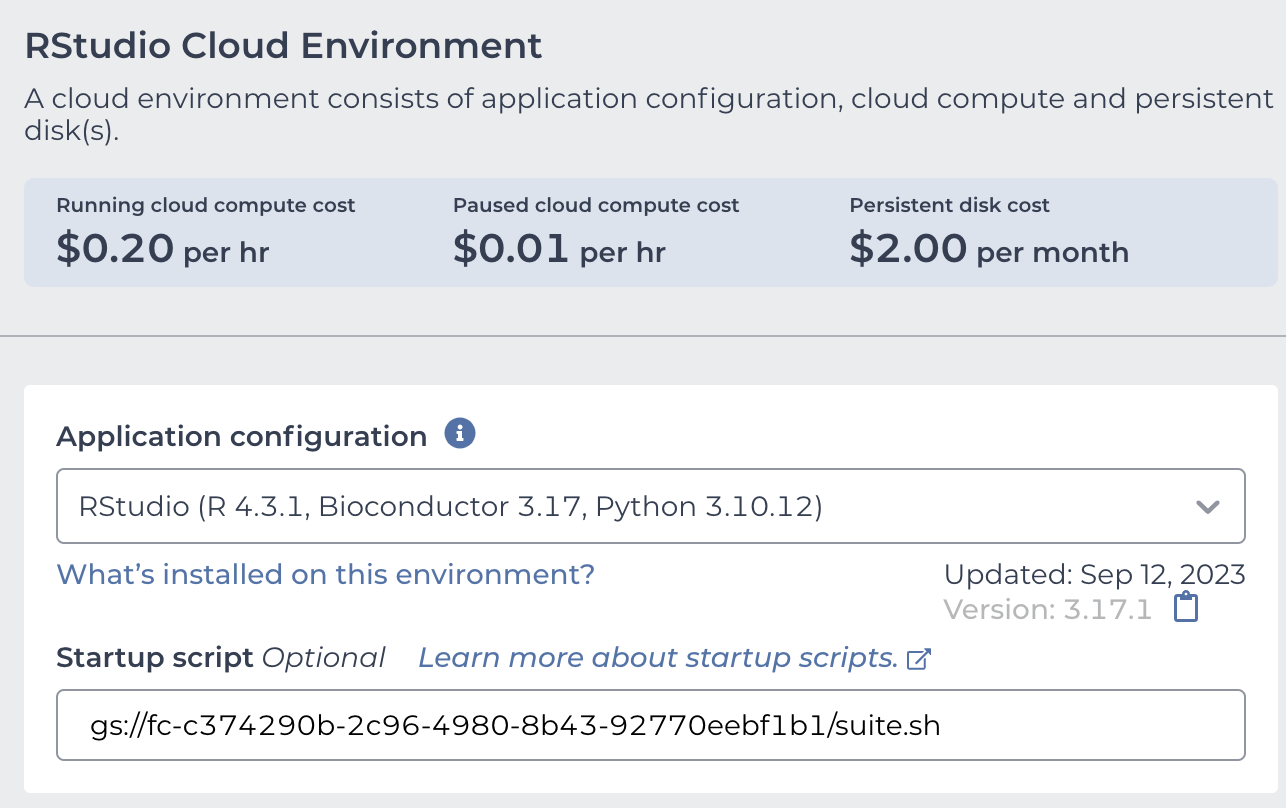
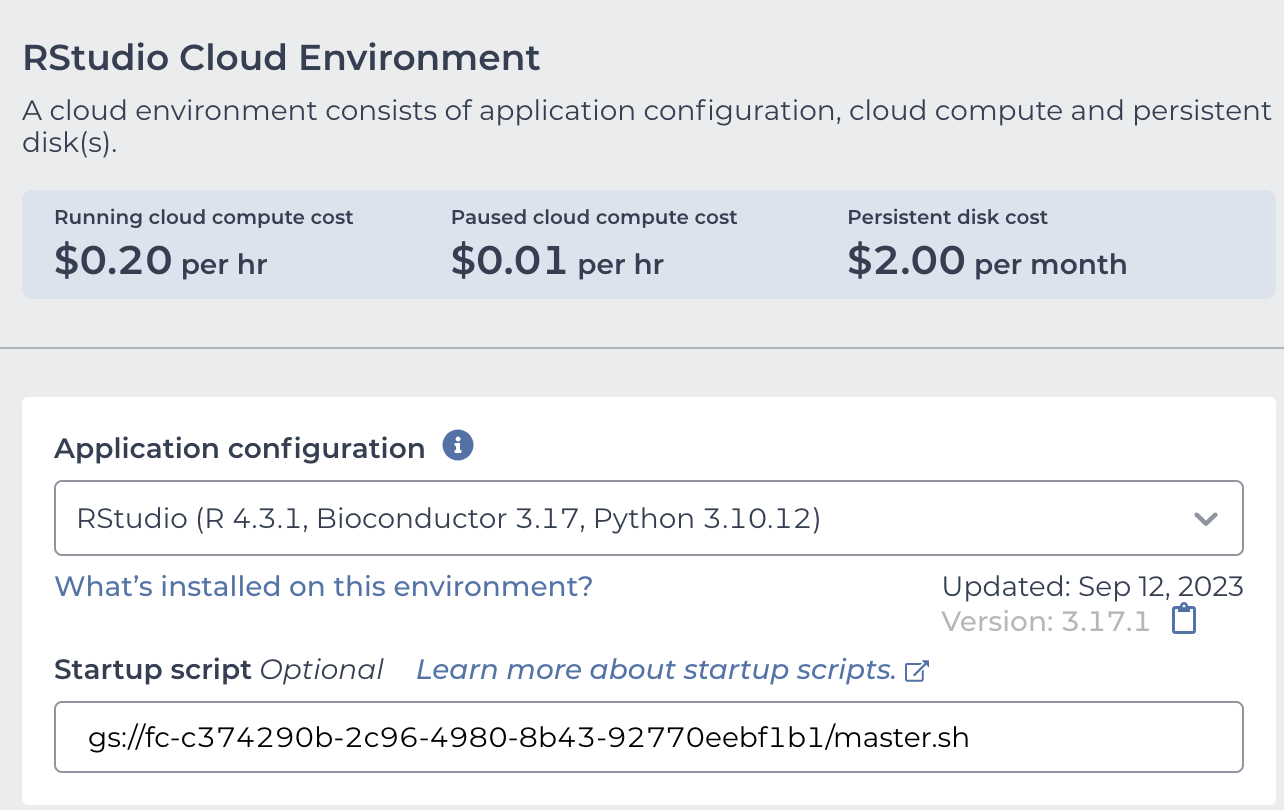
update docker link

diff --git a/docs/source/subsections/trygiotto/terra.rst b/docs/source/subsections/trygiotto/terra.rst
@@ -51,7 +51,7 @@ Now you can install the Giotto package by running the R commmand:
 
 .. code-block::
 
-    remotes::install_github('drieslab/Giotto')
+    remotes::install_github('drieslab/Giotto@master')
 
 
 Create a ready-to-use Cloud Environment with Giotto
@@ -60,13 +60,13 @@ Create a ready-to-use Cloud Environment with Giotto
 You can pre-install the Giotto package while launching the Jupyter notebook or the RStudio App.
 
 
-- To create a customized Jupyter notebook, use our Terra-based Docker image: giottopackage/terra_jupyter_suite:latest
+- To create a customized Jupyter notebook, use our Terra-based Docker image: giottopackage/terra_jupyter_master:latest
 
 
 .. image:: /images/img_terra/02_docker.png
 
 
-- To create a customized RStudio session use the startup script url: gs://fc-c374290b-2c96-4980-8b43-92770eebf1b1/suite.sh
+- To create a customized RStudio session use the startup script url: gs://fc-c374290b-2c96-4980-8b43-92770eebf1b1/master.sh
 
 
 .. image:: /images/img_terra/03_startup_script.png
